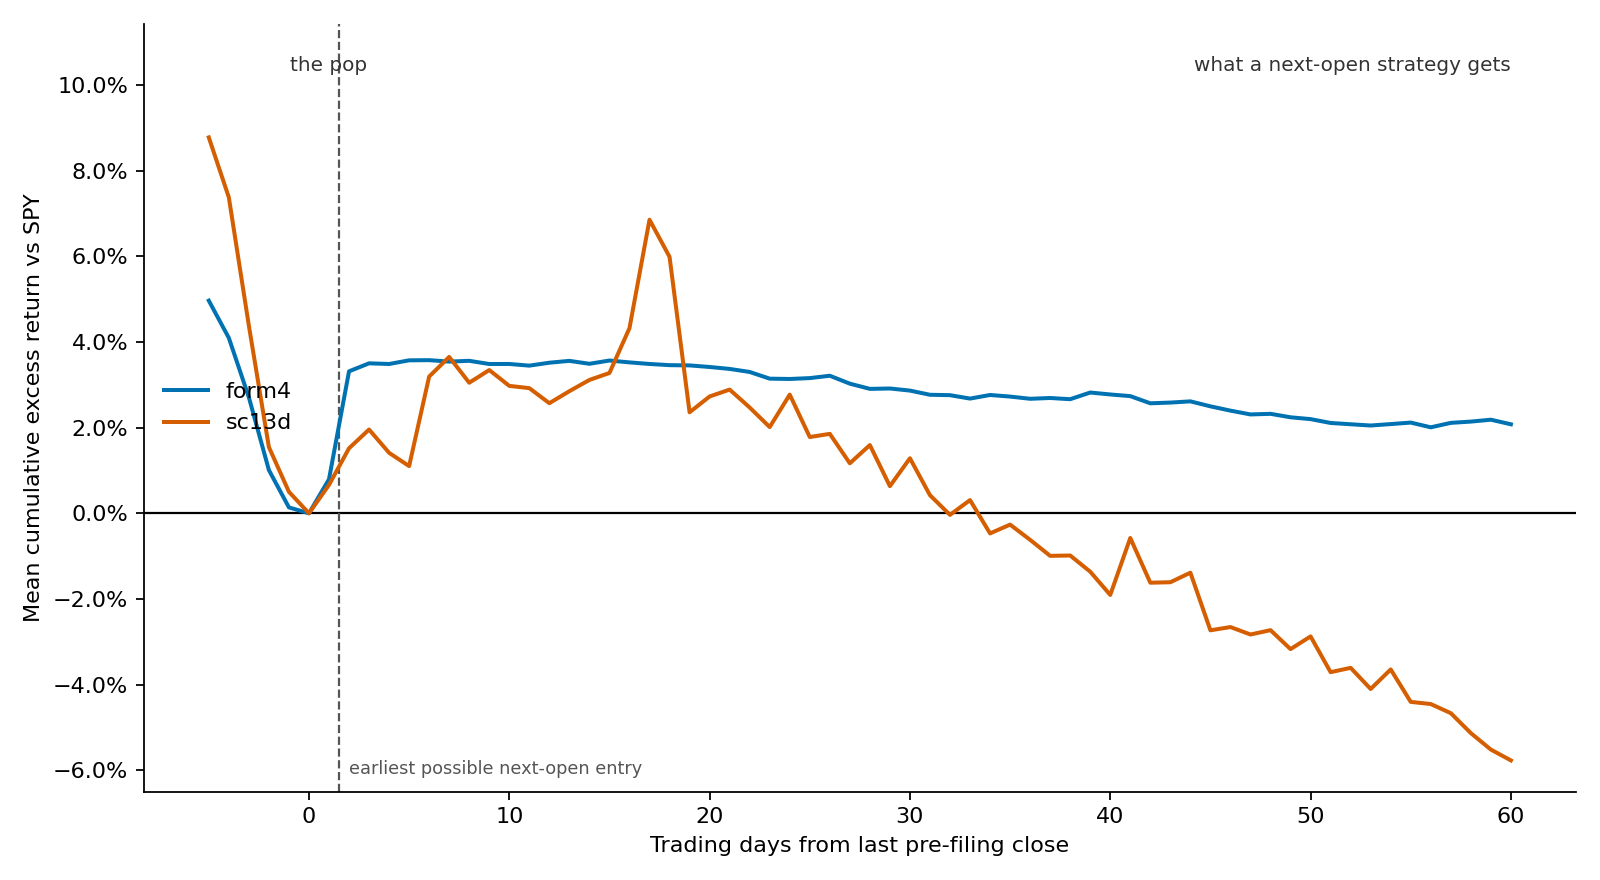
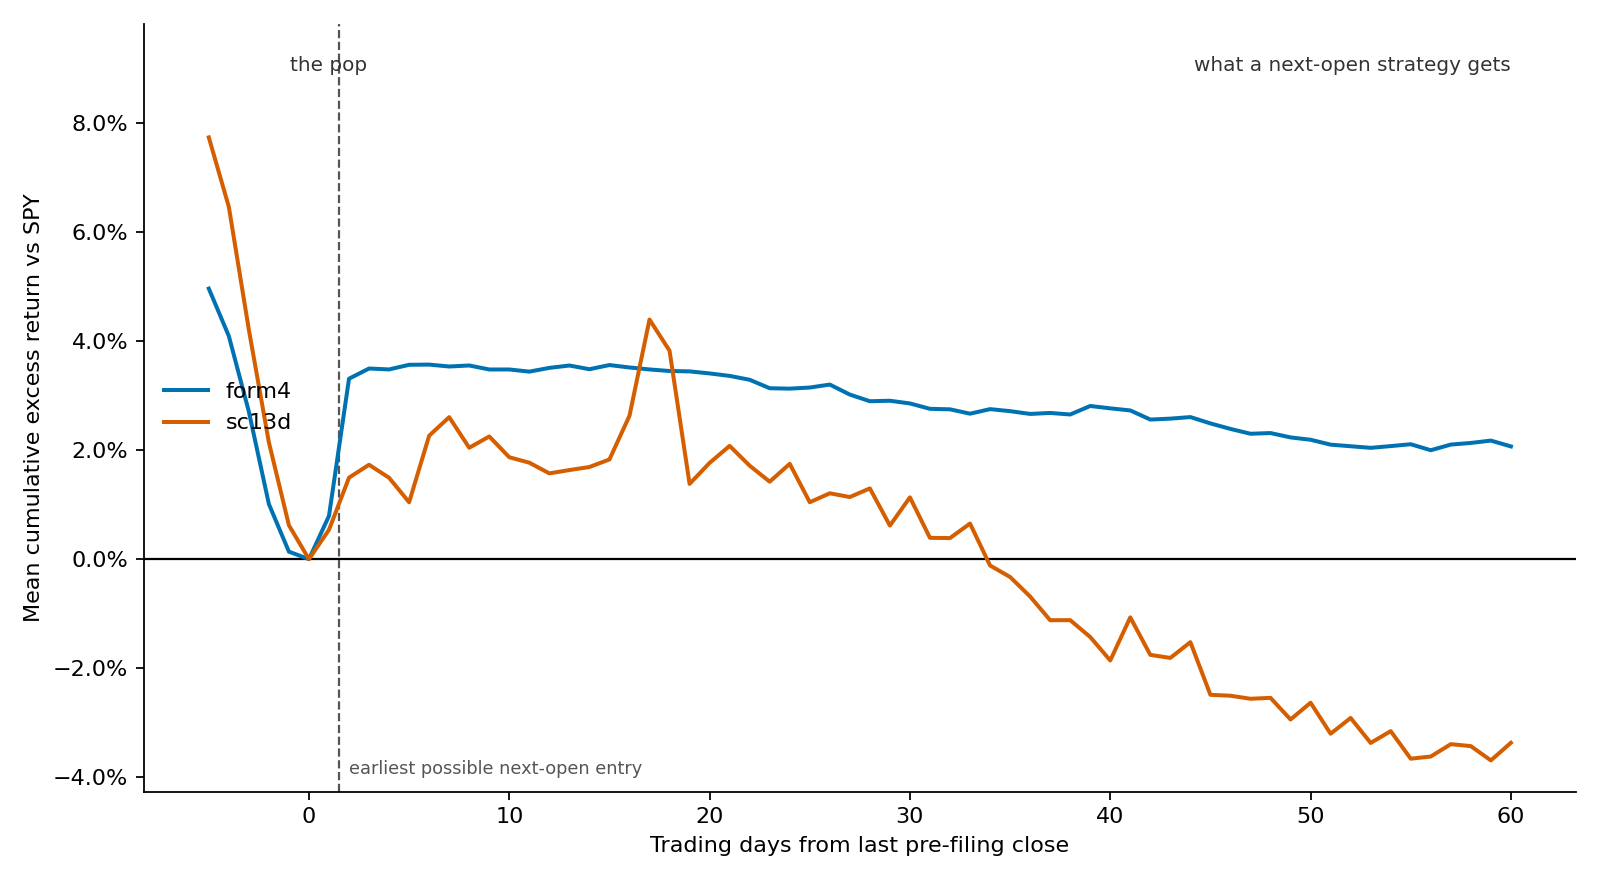
data: regenerated reports and figures on corrected 13D sample

diff --git a/data/diagnostics.md b/data/diagnostics.md
@@ -4,7 +4,7 @@
 
 > **Post-mortem diagnostic only -- the Phase 0 verdict (KILL vs SPY per spec Sec3.6) is unaffected.**
 
-Signals analyzed: 11451 (6431 form4, 5020 sc13d). Global price span: 2021-01-31 -> 2026-09-17.
+Signals analyzed: 13683 (6439 form4, 7244 sc13d). Global price span: 2021-01-31 -> 2026-09-17.
 
 ```
 SANITY CHECK (Diagnostic-A price logic vs data/events.parquet):
@@ -21,25 +21,25 @@ Question: did the documented filing reaction happen BEFORE our entry (next open 
 - `day0_return`: for signals where `trigger_date` itself was a trading day, `close[trigger] / close[pre] - 1` -- the filing-day move we could never capture.
 - `missed_total`: `open[entry] / close[pre] - 1` -- everything between the last pre-filing close and our actual entry price (the full "pop we missed").
 - `*_excess` variants subtract SPY's return over the identical date pairs.
-- Skipped signals: 950 (no price data), 0 (no row after trigger_date), 121 (no row before trigger_date).
+- Skipped signals: 1006 (no price data), 0 (no row after trigger_date), 157 (no row before trigger_date).
 
 ### Profile: form4
 
 | Metric | N | Mean | 95% CI lo | 95% CI hi |
 |---|---|---|---|---|
-| day0_return (raw) | 5736 | +0.0083 | +0.0068 | +0.0098 |
-| day0_return (SPY-adjusted) | 5736 | +0.0079 | +0.0065 | +0.0094 |
-| missed_total (raw) | 5739 | +0.0293 | +0.0276 | +0.0311 |
-| missed_total (SPY-adjusted) | 5739 | +0.0286 | +0.0269 | +0.0304 |
+| day0_return (raw) | 5738 | +0.0083 | +0.0068 | +0.0098 |
+| day0_return (SPY-adjusted) | 5738 | +0.0079 | +0.0065 | +0.0094 |
+| missed_total (raw) | 5741 | +0.0293 | +0.0276 | +0.0311 |
+| missed_total (SPY-adjusted) | 5741 | +0.0286 | +0.0269 | +0.0304 |
 
 ### Profile: sc13d
 
 | Metric | N | Mean | 95% CI lo | 95% CI hi |
 |---|---|---|---|---|
-| day0_return (raw) | 4627 | +0.0076 | +0.0034 | +0.0131 |
-| day0_return (SPY-adjusted) | 4627 | +0.0067 | +0.0024 | +0.0121 |
-| missed_total (raw) | 4641 | +0.0181 | +0.0129 | +0.0246 |
-| missed_total (SPY-adjusted) | 4641 | +0.0167 | +0.0115 | +0.0232 |
+| day0_return (raw) | 6765 | +0.0063 | +0.0031 | +0.0102 |
+| day0_return (SPY-adjusted) | 6765 | +0.0054 | +0.0023 | +0.0092 |
+| missed_total (raw) | 6779 | +0.0172 | +0.0128 | +0.0221 |
+| missed_total (SPY-adjusted) | 6779 | +0.0160 | +0.0116 | +0.0209 |
 
 ### Interpretation
 
@@ -47,7 +47,7 @@ Rule: if `missed_total` excess is significantly POSITIVE while the event study's
 
 **form4**: missed_total excess is significantly POSITIVE (mean +0.0286, 95% CI [+0.0269, +0.0304]), consistent with the documented filing reaction concentrating BEFORE our entry -- a timing problem rather than a dead signal. On the subset of signals where trigger_date itself was a trading day, the same-day excess move (day0_return_excess) has mean +0.0079, 95% CI [+0.0065, +0.0094].
 
-**sc13d**: missed_total excess is significantly POSITIVE (mean +0.0167, 95% CI [+0.0115, +0.0232]), consistent with the documented filing reaction concentrating BEFORE our entry -- a timing problem rather than a dead signal. On the subset of signals where trigger_date itself was a trading day, the same-day excess move (day0_return_excess) has mean +0.0067, 95% CI [+0.0024, +0.0121].
+**sc13d**: missed_total excess is significantly POSITIVE (mean +0.0160, 95% CI [+0.0116, +0.0209]), consistent with the documented filing reaction concentrating BEFORE our entry -- a timing problem rather than a dead signal. On the subset of signals where trigger_date itself was a trading day, the same-day excess move (day0_return_excess) has mean +0.0054, 95% CI [+0.0023, +0.0092].
 
 ## Diagnostic B: IWM benchmark decomposition
 
@@ -57,29 +57,29 @@ The Phase 0 event study re-run with `benchmark="IWM"` (Russell 2000 ETF, a small
 
 | Horizon | N (SPY) | Mean excess vs SPY | 95% CI vs SPY | N (IWM) | Mean excess vs IWM | 95% CI vs IWM |
 |---|---|---|---|---|---|---|
-| 5 | 4651 | +0.0004 | [-0.0021, +0.0029] | 4651 | +0.0018 | [-0.0006, +0.0042] |
-| 10 | 4651 | -0.0003 | [-0.0038, +0.0032] | 4651 | +0.0016 | [-0.0017, +0.0051] |
-| 20 | 4651 | -0.0050 | [-0.0094, -0.0005] | 4651 | -0.0012 | [-0.0055, +0.0032] |
-| 40 | 4651 | -0.0127 | [-0.0194, -0.0059] | 4651 | -0.0067 | [-0.0133, -0.0000] |
+| 5 | 4653 | +0.0003 | [-0.0022, +0.0028] | 4653 | +0.0018 | [-0.0007, +0.0042] |
+| 10 | 4653 | -0.0004 | [-0.0038, +0.0032] | 4653 | +0.0016 | [-0.0018, +0.0052] |
+| 20 | 4653 | -0.0051 | [-0.0095, -0.0005] | 4653 | -0.0013 | [-0.0057, +0.0032] |
+| 40 | 4653 | -0.0128 | [-0.0194, -0.0058] | 4653 | -0.0068 | [-0.0132, -0.0000] |
 
 ### Profile: sc13d (cost_bps=30)
 
 | Horizon | N (SPY) | Mean excess vs SPY | 95% CI vs SPY | N (IWM) | Mean excess vs IWM | 95% CI vs IWM |
 |---|---|---|---|---|---|---|
-| 5 | 2976 | -0.0160 | [-0.0218, -0.0098] | 2976 | -0.0139 | [-0.0197, -0.0077] |
-| 10 | 2976 | -0.0217 | [-0.0302, -0.0129] | 2976 | -0.0177 | [-0.0261, -0.0089] |
-| 20 | 2976 | -0.0248 | [-0.0405, -0.0074] | 2976 | -0.0154 | [-0.0308, +0.0019] |
-| 40 | 2976 | -0.0731 | [-0.0853, -0.0609] | 2976 | -0.0566 | [-0.0688, -0.0445] |
+| 5 | 4256 | -0.0187 | [-0.0236, -0.0137] | 4256 | -0.0171 | [-0.0220, -0.0122] |
+| 10 | 4256 | -0.0260 | [-0.0327, -0.0189] | 4256 | -0.0233 | [-0.0298, -0.0163] |
+| 20 | 4256 | -0.0307 | [-0.0423, -0.0175] | 4256 | -0.0247 | [-0.0364, -0.0116] |
+| 40 | 4256 | -0.0744 | [-0.0847, -0.0637] | 4256 | -0.0645 | [-0.0747, -0.0539] |
 
 ### Interpretation
 
-**form4**: excess returns vs IWM remain non-positive on average (mean across horizons -0.0011 vs -0.0044 vs SPY), so switching the benchmark from SPY to a small/mid-cap index does not turn the result positive -- the underlying signal itself does not appear to beat its peer-universe drift ('signal dead' rather than purely a 'regime headwind' explanation).
+**form4**: excess returns vs IWM remain non-positive on average (mean across horizons -0.0012 vs -0.0045 vs SPY), so switching the benchmark from SPY to a small/mid-cap index does not turn the result positive -- the underlying signal itself does not appear to beat its peer-universe drift ('signal dead' rather than purely a 'regime headwind' explanation).
 
-**sc13d**: excess returns vs IWM remain non-positive on average (mean across horizons -0.0259 vs -0.0339 vs SPY), so switching the benchmark from SPY to a small/mid-cap index does not turn the result positive -- the underlying signal itself does not appear to beat its peer-universe drift ('signal dead' rather than purely a 'regime headwind' explanation).
+**sc13d**: excess returns vs IWM remain non-positive on average (mean across horizons -0.0324 vs -0.0375 vs SPY), so switching the benchmark from SPY to a small/mid-cap index does not turn the result positive -- the underlying signal itself does not appear to beat its peer-universe drift ('signal dead' rather than purely a 'regime headwind' explanation).
 
 ## What this means for future work
 
-- **form4**: `missed_total` excess CI is entirely positive ([+0.0269, +0.0304], n=5739). The data supports that, on average, price moves up between the last pre-filing close and our entry -- any future redesign aiming to capture this would need a same-day-of-filing entry mechanism (not available with daily-bar data and a next-open entry rule), or intraday data.
-- **sc13d**: `missed_total` excess CI is entirely positive ([+0.0115, +0.0232], n=4641). The data supports that, on average, price moves up between the last pre-filing close and our entry -- any future redesign aiming to capture this would need a same-day-of-filing entry mechanism (not available with daily-bar data and a next-open entry rule), or intraday data.
-- **form4**: average IWM-relative excess across horizons is -0.0011 (still <= 0), so benchmark choice (SPY vs a small/mid-cap index) does not by itself explain the KILL verdict -- the data does not support a 'pure regime headwind' story for this profile.
-- **sc13d**: average IWM-relative excess across horizons is -0.0259 (still <= 0), so benchmark choice (SPY vs a small/mid-cap index) does not by itself explain the KILL verdict -- the data does not support a 'pure regime headwind' story for this profile.
+- **form4**: `missed_total` excess CI is entirely positive ([+0.0269, +0.0304], n=5741). The data supports that, on average, price moves up between the last pre-filing close and our entry -- any future redesign aiming to capture this would need a same-day-of-filing entry mechanism (not available with daily-bar data and a next-open entry rule), or intraday data.
+- **sc13d**: `missed_total` excess CI is entirely positive ([+0.0116, +0.0209], n=6779). The data supports that, on average, price moves up between the last pre-filing close and our entry -- any future redesign aiming to capture this would need a same-day-of-filing entry mechanism (not available with daily-bar data and a next-open entry rule), or intraday data.
+- **form4**: average IWM-relative excess across horizons is -0.0012 (still <= 0), so benchmark choice (SPY vs a small/mid-cap index) does not by itself explain the KILL verdict -- the data does not support a 'pure regime headwind' story for this profile.
+- **sc13d**: average IWM-relative excess across horizons is -0.0324 (still <= 0), so benchmark choice (SPY vs a small/mid-cap index) does not by itself explain the KILL verdict -- the data does not support a 'pure regime headwind' story for this profile.

diff --git a/data/report.md b/data/report.md
@@ -7,22 +7,22 @@ Reasons: CI lo > 0; portfolio excess > 0; max DD < 25%
 
 | Horizon | N | Mean excess | 95% CI | Pos. years | Port. excess (ann.) | Max DD | Skipped (full book) | Pass |
 |---|---|---|---|---|---|---|---|---|
-| 5 | 4651 | +0.0004 | [-0.0021, +0.0029] | 3 | -14.95% | 49.88% | 718 | ❌ |
-| 10 | 4651 | -0.0003 | [-0.0038, +0.0032] | 2 | -2.57% | 48.56% | 2312 | ❌ |
-| 20 | 4651 | -0.0050 | [-0.0094, -0.0005] | 1 | -27.46% | 56.88% | 23 | ❌ |
-| 40 | 4651 | -0.0127 | [-0.0194, -0.0059] | 2 | -17.74% | 54.51% | 90 | ❌ |
+| 5 | 4653 | +0.0003 | [-0.0022, +0.0028] | 3 | -14.95% | 49.88% | 718 | ❌ |
+| 10 | 4653 | -0.0004 | [-0.0038, +0.0032] | 2 | -2.57% | 48.56% | 2312 | ❌ |
+| 20 | 4653 | -0.0051 | [-0.0095, -0.0005] | 1 | -27.46% | 56.88% | 23 | ❌ |
+| 40 | 4653 | -0.0128 | [-0.0194, -0.0058] | 2 | -17.74% | 54.51% | 90 | ❌ |
 
 ## Profile: sc13d — **KILL**
 
-Coverage: 92.3%
+Coverage: 93.4%
 Reasons: CI lo > 0; >=3 positive years; max DD < 25%
 
 | Horizon | N | Mean excess | 95% CI | Pos. years | Port. excess (ann.) | Max DD | Skipped (full book) | Pass |
 |---|---|---|---|---|---|---|---|---|
-| 5 | 2976 | -0.0160 | [-0.0218, -0.0098] | 1 | -28.82% | 77.02% | 332 | ❌ |
-| 10 | 2976 | -0.0217 | [-0.0302, -0.0129] | 1 | +0.99% | 52.52% | 1680 | ❌ |
-| 20 | 2976 | -0.0248 | [-0.0405, -0.0074] | 1 | +36.53% | 25.89% | 1970 | ❌ |
-| 40 | 2976 | -0.0731 | [-0.0853, -0.0609] | 0 | -21.73% | 57.31% | 681 | ❌ |
+| 5 | 4256 | -0.0187 | [-0.0236, -0.0137] | 1 | -40.32% | 89.47% | 332 | ❌ |
+| 10 | 4256 | -0.0260 | [-0.0327, -0.0189] | 1 | -14.88% | 72.92% | 2288 | ❌ |
+| 20 | 4256 | -0.0307 | [-0.0423, -0.0175] | 1 | +9.66% | 48.15% | 3086 | ❌ |
+| 40 | 4256 | -0.0744 | [-0.0847, -0.0637] | 0 | -23.83% | 71.19% | 681 | ❌ |
 
 > Max DD is computed on the REALIZED equity curve (positions held at cost
 > until exit); it understates true intra-position peak-to-trough drawdown.
@@ -35,7 +35,7 @@ Reasons: CI lo > 0; >=3 positive years; max DD < 25%
 
 ## Excluded events by reason
 
-- adv: 1459 events (776 tickers)
-- insufficient_history: 74 events (36 tickers)
-- min_price: 361 events (207 tickers)
-- no_prices: 792 events (370 tickers)
+- adv: 1704 events (898 tickers)
+- insufficient_history: 93 events (46 tickers)
+- min_price: 503 events (297 tickers)
+- no_prices: 818 events (384 tickers)

diff --git a/data/study2-report.md b/data/study2-report.md
@@ -27,14 +27,14 @@ IWM-relative mean at the same horizon is flagged prominently below.
 
 ## Profile: form4 -- **NO-SIGNAL**
 
-Signals: 6431. Coverage: 88.7% (threshold 80%).
+Signals: 6439. Coverage: 88.7% (threshold 80%).
 No horizon passed all five criteria.
 
 | Horizon | n | mean excess | 99% CI | floor | floor met | pos. vintage years | n>=min | CI99 lo>0 | IWM mean | IWM 99% CI |
 |---|---|---|---|---|---|---|---|---|---|---|
-| 60 | 4601 | -1.97% | [-3.03%, -0.85%] | +1.0% | no | 2/6 | yes | no | -1.09% | [-2.16%, +0.01%] |
-| 125 | 4278 | -4.97% | [-6.58%, -3.27%] | +2.0% | no | 1/5 | yes | no | -2.53% | [-4.11%, -0.85%] |
-| 250 | 3772 | -10.34% | [-12.74%, -8.00%] | +3.0% | no | 1/5 | yes | no | -4.00% | [-6.35%, -1.70%] |
+| 60 | 4603 | -1.98% | [-3.06%, -0.87%] | +1.0% | no | 2/6 | yes | no | -1.10% | [-2.17%, -0.01%] |
+| 125 | 4280 | -4.97% | [-6.52%, -3.30%] | +2.0% | no | 1/5 | yes | no | -2.53% | [-4.06%, -0.85%] |
+| 250 | 3774 | -10.33% | [-12.66%, -7.95%] | +3.0% | no | 1/5 | yes | no | -3.99% | [-6.30%, -1.63%] |
 
 Per-horizon checks:
 
@@ -44,14 +44,14 @@ Per-horizon checks:
 
 ## Profile: sc13d -- **NO-SIGNAL**
 
-Signals: 5020. Coverage: 92.3% (threshold 80%).
+Signals: 7244. Coverage: 93.4% (threshold 80%).
 No horizon passed all five criteria.
 
 | Horizon | n | mean excess | 99% CI | floor | floor met | pos. vintage years | n>=min | CI99 lo>0 | IWM mean | IWM 99% CI |
 |---|---|---|---|---|---|---|---|---|---|---|
-| 60 | 2976 | -11.19% | [-12.85%, -9.38%] | +1.0% | no | 0/4 | yes | no | -8.57% | [-10.21%, -6.81%] |
-| 125 | 2976 | -21.75% | [-23.90%, -19.55%] | +2.0% | no | 0/4 | yes | no | -16.39% | [-18.53%, -14.19%] |
-| 250 | 2976 | -31.60% | [-34.49%, -28.29%] | +3.0% | no | 0/4 | yes | no | -22.79% | [-25.66%, -19.47%] |
+| 60 | 4222 | -9.60% | [-11.62%, -7.35%] | +1.0% | no | 0/6 | yes | no | -8.02% | [-10.05%, -5.77%] |
+| 125 | 3920 | -20.32% | [-22.25%, -18.41%] | +2.0% | no | 0/5 | yes | no | -16.98% | [-18.89%, -15.07%] |
+| 250 | 3382 | -29.32% | [-32.31%, -26.24%] | +3.0% | no | 0/5 | yes | no | -22.22% | [-25.17%, -19.14%] |
 
 Per-horizon checks:
 
